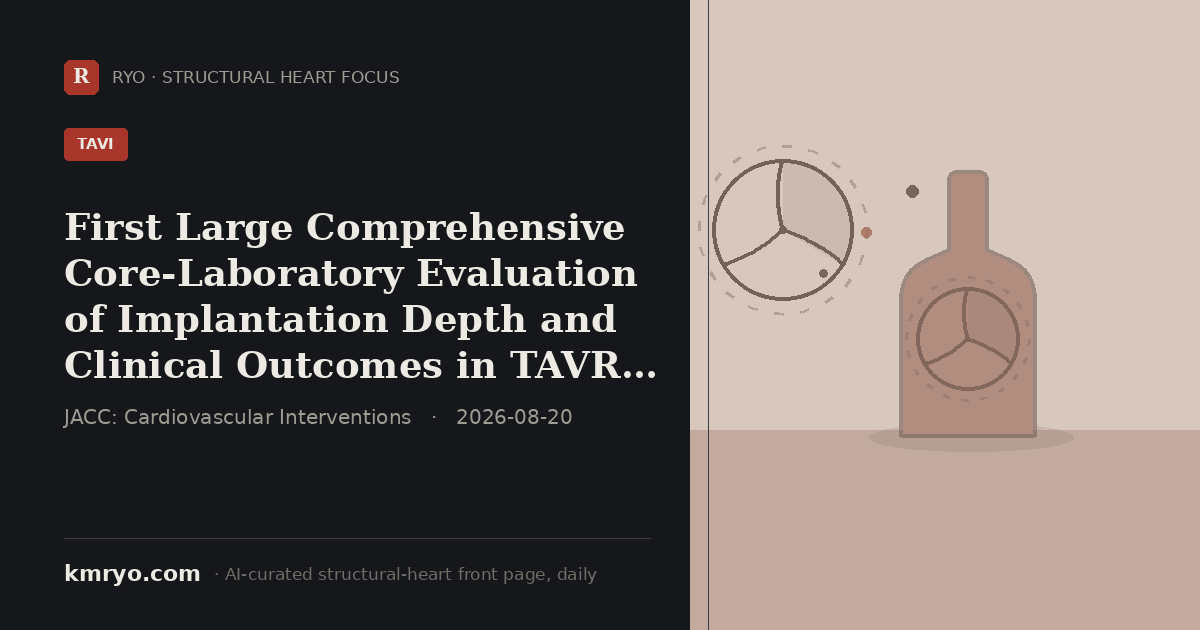
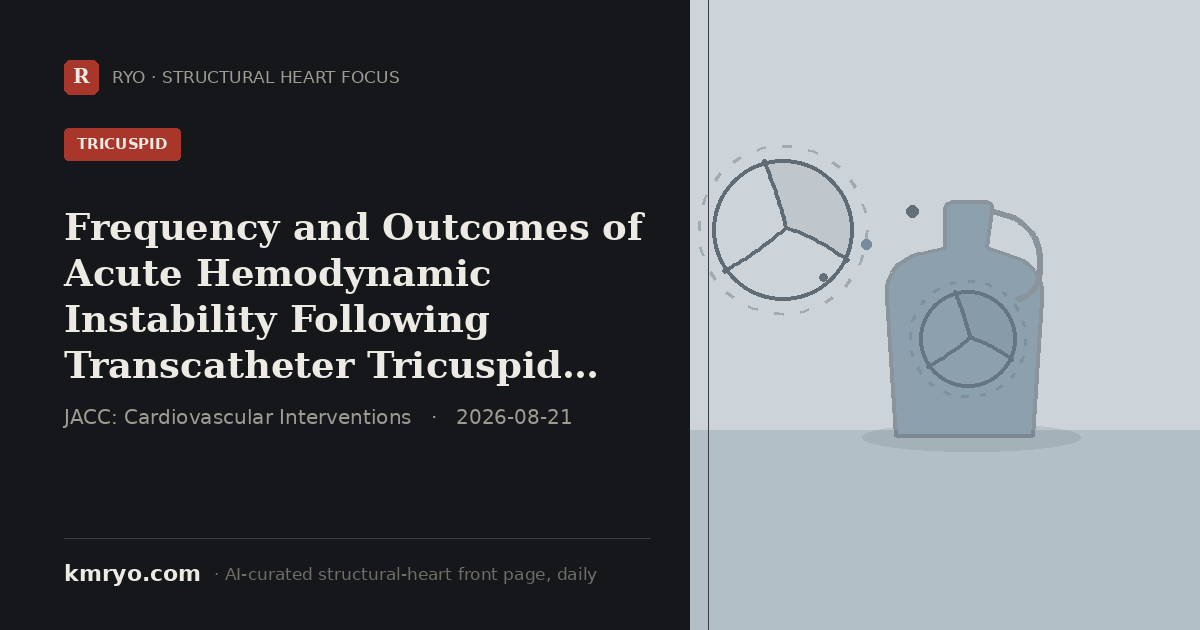
pulse: 2026-08-21 daily update

diff --git a/index.html b/index.html
@@ -6,8 +6,8 @@
 <title>Structural Heart Focus — Daily | Dr. Mi Chen · 千觅量子 RYO</title>
 <meta name="description" content="Structural Heart Focus — the day's most important structural-heart reading (top journals, major meetings and the field's conversation), curated daily by an AI agent from inside the Zurich hybrid room. By Dr. Mi Chen · 千觅量子 RYO.">
 <!-- Social share card. Regenerated daily by the pulse agent (pulse/make_share_card.py); og:title/description updated to the day's top story so LinkedIn/WeChat/X show today's headline, not a static portrait. -->
-<meta property="og:title" content="First Large Comprehensive Core-Laboratory Evaluation of Implantation Depth and Clinical Outcomes in TAVR: Final Global Results From the Optimize PRO Prospective Study">
-<meta property="og:description" content="Optimize PRO's 603-patient core-lab study finds shallower TAVR implant depth cuts permanent pacemaker rates from 20.3% to 2.3% with similar 1-year safety, per late-breaking EuroPCR 2026 / JACC: Cardiovascular Interventions data.">
+<meta property="og:title" content="Frequency and Outcomes of Acute Hemodynamic Instability Following Transcatheter Tricuspid Valve Replacement: Insights From the CESAR-TR-Registry">
+<meta property="og:description" content="The 200-patient CESAR-TR registry finds acute hemodynamic instability after TTVR in 8.5% of patients, with in-hospital mortality soaring to 35.2% versus 0.1% in those without it.">
 <meta property="og:image" content="https://www.kmryo.com/pulse/img/share/card.png">
 <meta property="og:image:width" content="1200">
 <meta property="og:image:height" content="630">
@@ -16,8 +16,8 @@
 <meta property="og:type" content="website">
 <meta property="og:site_name" content="kmryo.com · Structural Heart Focus">
 <meta name="twitter:card" content="summary_large_image">
-<meta name="twitter:title" content="First Large Comprehensive Core-Laboratory Evaluation of Implantation Depth and Clinical Outcomes in TAVR: Final Global Results From the Optimize PRO Prospective Study">
-<meta name="twitter:description" content="Optimize PRO's 603-patient core-lab study finds shallower TAVR implant depth cuts permanent pacemaker rates from 20.3% to 2.3% with similar 1-year safety, per late-breaking EuroPCR 2026 / JACC: Cardiovascular Interventions data.">
+<meta name="twitter:title" content="Frequency and Outcomes of Acute Hemodynamic Instability Following Transcatheter Tricuspid Valve Replacement: Insights From the CESAR-TR-Registry">
+<meta name="twitter:description" content="The 200-patient CESAR-TR registry finds acute hemodynamic instability after TTVR in 8.5% of patients, with in-hospital mortality soaring to 35.2% versus 0.1% in those without it.">
 <meta name="twitter:image" content="https://www.kmryo.com/pulse/img/share/card.png">
[1 lines of base64/hex data omitted]
 <link rel="preconnect" href="https://fonts.googleapis.com">
